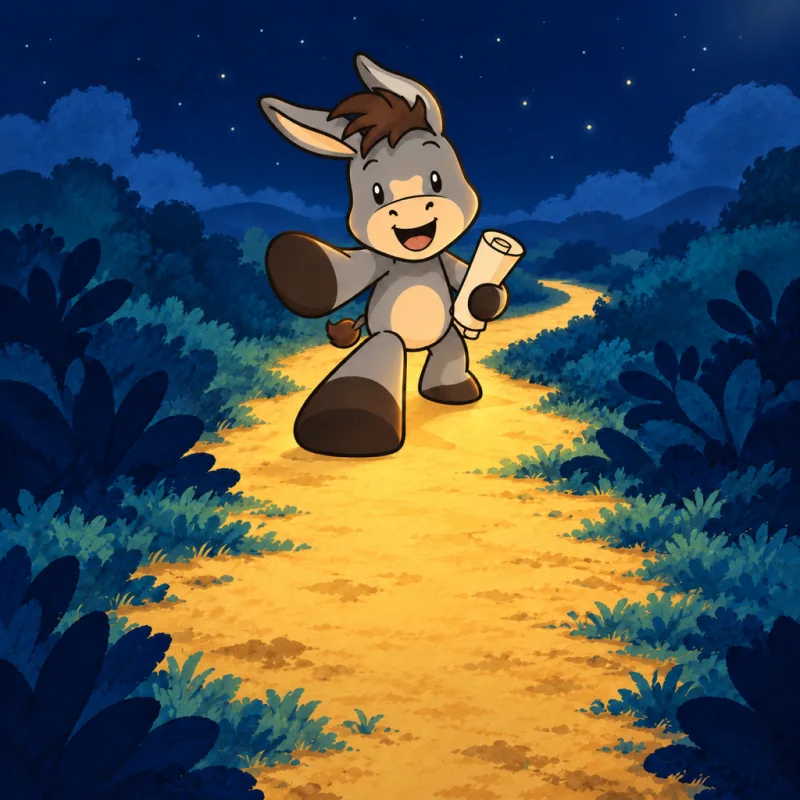
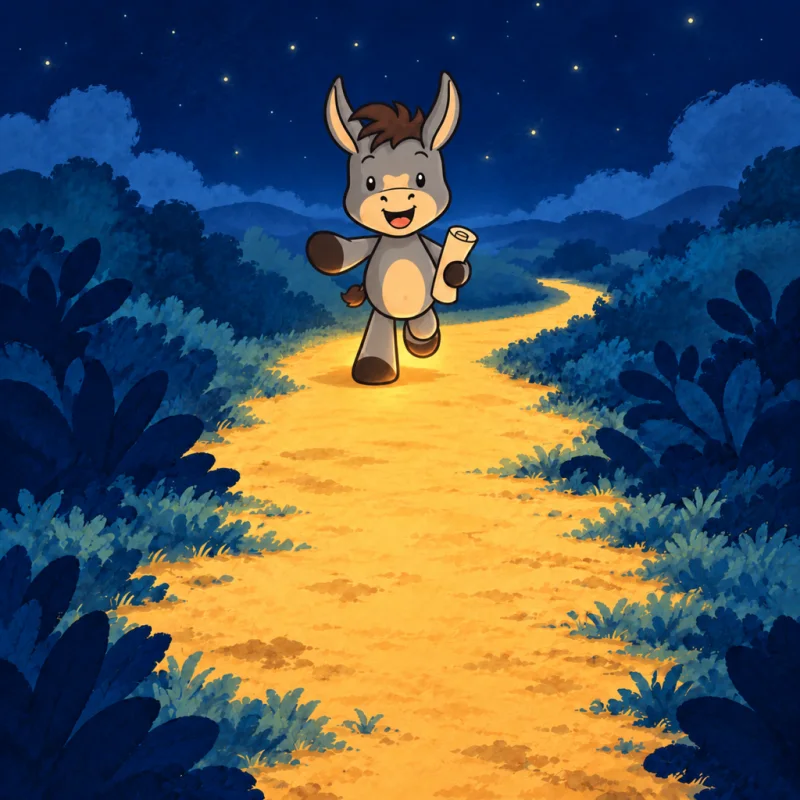
Teodoro: nuevas escenas «vamos a la aventura» y «dormido en el suelo»
- 01 (1 día sin caminar): parte del dibujo original de Teodoro; mismo paso hacia
  nosotros invitando, con el cuerpo y las proporciones del original.
- 05 (batería en 0): antes «apagado» sentado; ahora dormido boca arriba, visto
  de cerca desde arriba, con zetas. Día y noche, con doble crítica y OK de César.
- tools/pieza-app.mjs: captura la pieza grande de Hoy y la tab Teodoro.

Claude-Session: https://claude.ai/code/session_01GupGkuALdB12DRRsmioQJj

diff --git a/public/js/flow.js b/public/js/flow.js
@@ -461,7 +461,7 @@ register('hoy', {
  *  Con pila: paso = 5 − pila (0–4); con la pila en 0: los días sin caminar (5–10). «Reactivado» la primera vez que la pila sube.
  *  Una imagen cuadrada por paso, de día y de noche; cada pieza recorta su parte (Teodoro arriba, sobre el panel). */
 const ESCENA_ALT = ['feliz a reventar', 'en marcha hacia la aventura', 'listo para salir', 'tomando café, serio, esperándote', 'impaciente, mirando el reloj',
-  'apagado en el suelo, sin energía', 'envuelto en telarañas de tanto esperar', 'cubierto de musgo de tanto esperar', 'atrapado en una ventisca', 'lleno de carámbanos', 'congelado en un bloque de hielo'];
+  'dormido en el suelo, sin energía', 'envuelto en telarañas de tanto esperar', 'cubierto de musgo de tanto esperar', 'atrapado en una ventisca', 'lleno de carámbanos', 'congelado en un bloque de hielo'];
 export const pasoTeodoro = () => S.bateria > 0 ? 5 - S.bateria : Math.max(5, Math.min(10, S.sinCaminar || 0));
 // solo los pasos con imagen aprobada por César; el resto conserva la ilustración original de Teodoro
 const APROBADAS = new Set([0, 1, 2, 3, 4, 5, 6, 7, 8, 9, 10, 'R']); // aprobadas por César (23-oct-2026)
